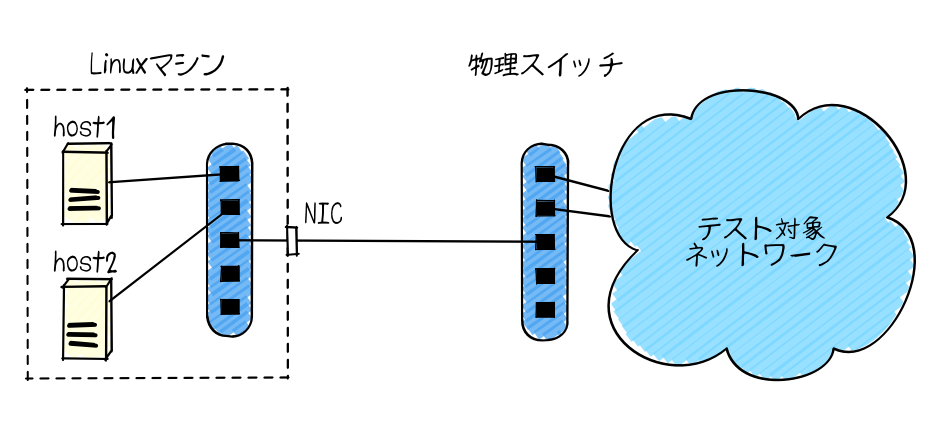
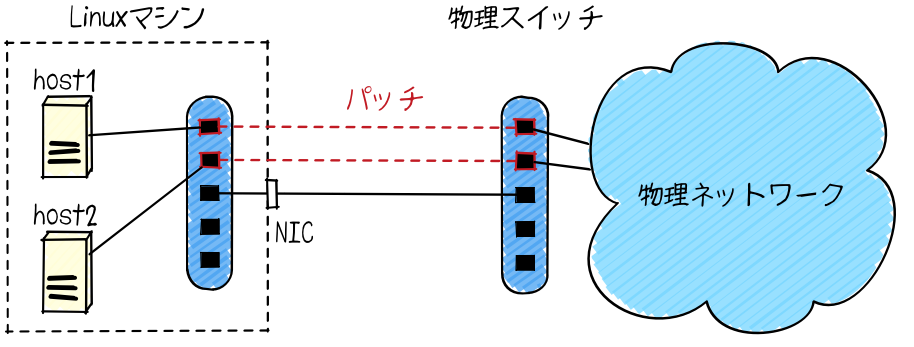
Refactor README

diff --git a/README.md b/README.md
@@ -1,14 +1,14 @@
 # NetTesterとは
 
-NetTesterは物理ネットワークのための受け入れテストツールです。物理ネットワークに仮想的なホストをつなぎこみ、ping疎通確認など任意のテストをソフトウェア的に実行できます。
+NetTesterは物理ネットワークのための受け入れテストツールです。物理ネットワークに仮想的なホストをつなぎこみ、ping疎通などのテストをソフトウェア的に実行できます。
 
 ![overview](https://raw.githubusercontent.com/yasuhito/net_tester/develop/img/overview.png)
 
-NetTesterでのテストはテストシナリオに沿って実行します。テストシナリオでは、「host1 から host2 への ping が通る」といった一連のアサーションをスクリプトとして記述します。テストシナリオをNetTesterで実行すると、仮想ホストがシナリオに沿ってパケットを送受信します。
+NetTesterでのテストはテストスクリプトに沿って実行します。テストスクリプトには「host1 から host2 への ping が通る」といった一連のテスト項目を記述します。テストスクリプトをNetTesterで実行すると、仮想ホストがテストスクリプトに沿ってパケットを送受信し、実行結果を表示します。テストツールとしては現在 [Cucumber](https://cucumber.io) をサポートしています。
 
 ![network](https://raw.githubusercontent.com/yasuhito/net_tester/develop/img/network.png)
 
-NetTesterの最小構成は、一台のLinuxマシンと物理スイッチからなります。Linuxマシン内ではパケットを送受信する仮想ホストを任意の台数だけ起動できます。物理スイッチはOpenFlowスイッチで、仮想ホストをテスト対象ネットワークに接続します。仮想ホストを起動するLinuxマシンにはNICはひとつしか必要ありません。このように、Linuxマシン一台と物理OpenFlowスイッチを用意すれば、すぐにNetTesterを使い始められます。
+NetTesterの最小構成は、LinuxマシンとOpenFlow物理スイッチのみです。Linuxマシン内はパケットを送受信する仮想ホストとソフトウェアOpenFlowスイッチを起動します。OpenFlow物理スイッチは仮想OpenFlowスイッチとの間に仮想パッチを作ることで、仮想ホストをテスト対象ネットワークに仮想的に接続します。このように、NetTester用のNICを持つLinuxマシン一台と物理OpenFlowスイッチを用意すれば、すぐにNetTesterを使い始められます。
 
 
 # テストシナリオの書き方
